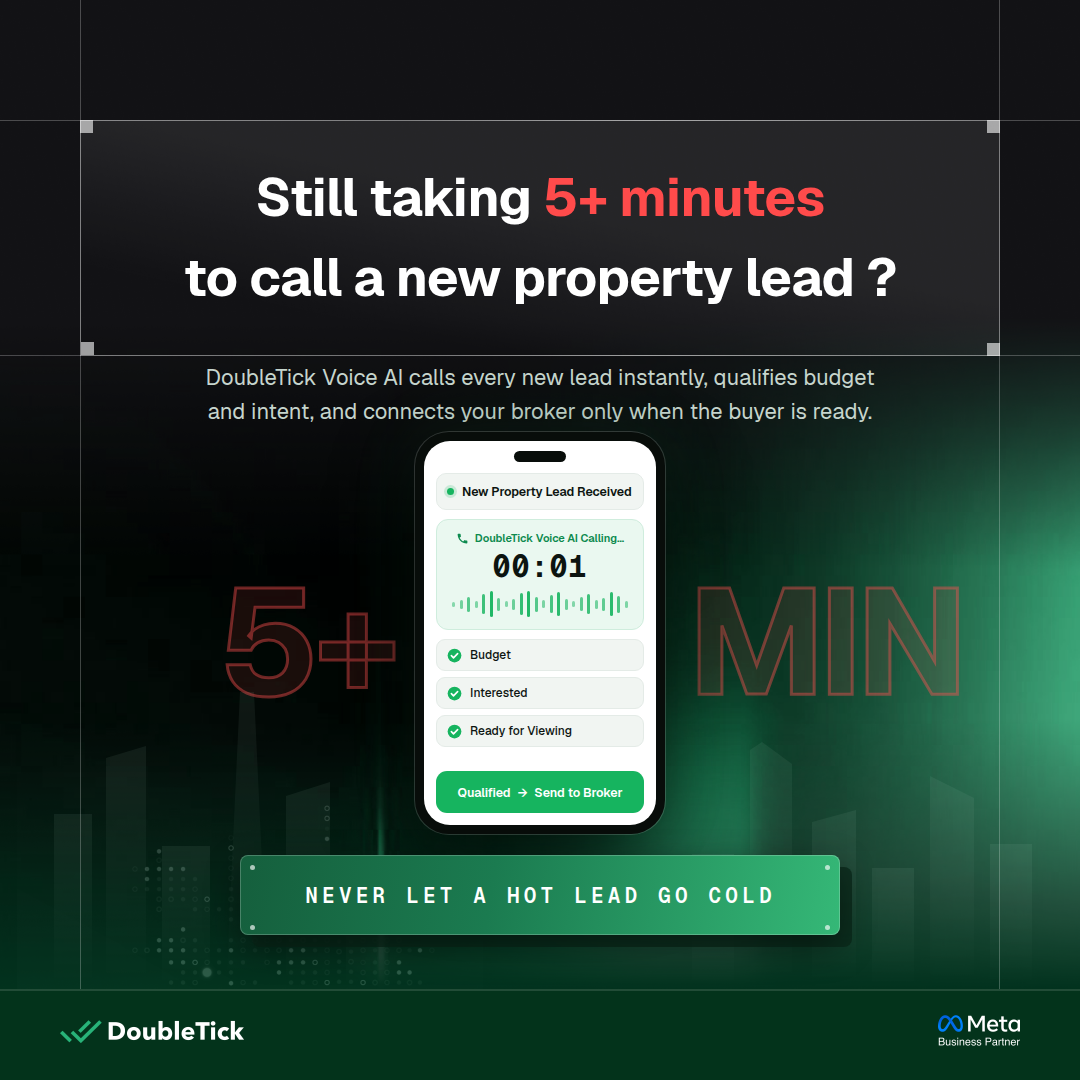
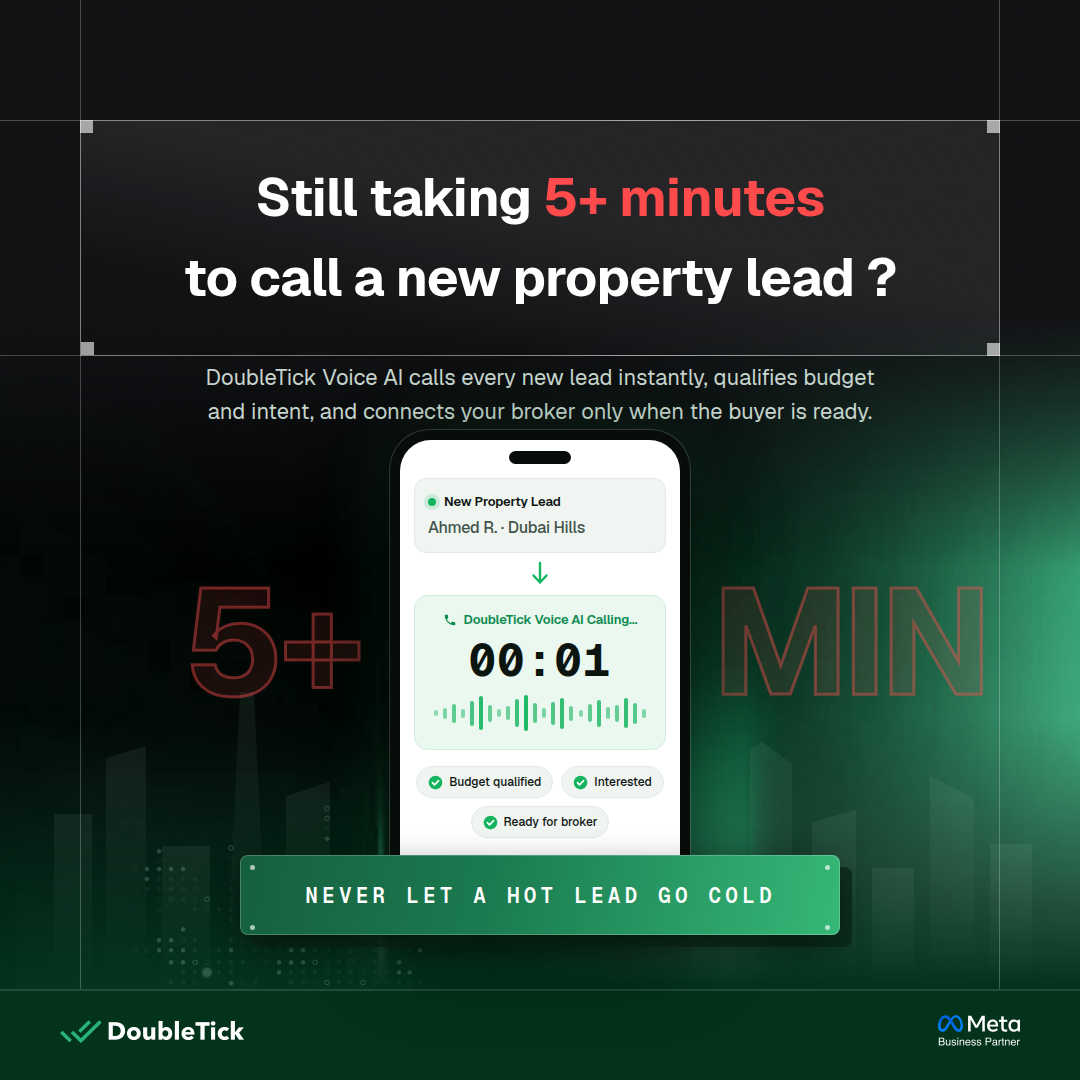
feat: enlarge the phone and cut its screen to one clear story
The 250px phone was too small for its screen to read at feed size, so the
AI call never landed. Phone is now 300x494 and runs behind the CTA, which
buys the height a realistic phone ratio needs.

Screen, top to bottom:
- New Property Lead / Ahmed R. - Dubai Hills
- down arrow
- DoubleTick Voice AI Calling... / 00:01 / live waveform
- three small chips: Budget qualified, Interested, Ready for broker

Dropped the "Qualified -> Send to Broker" bar; the chips already carry the
outcome.

Claude-Session: https://claude.ai/code/session_018HdwsZw2cb2BqPFsQ5TjX1

Changed region(s): [[0.1528, 0.3972, 0.9167, 0.7944]]

diff --git a/creatives/voice-ai-instant-callback.html b/creatives/voice-ai-instant-callback.html
@@ -41,57 +41,54 @@
     letter-spacing:-5px;line-height:1;color:rgba(255,75,75,.10);
     -webkit-text-stroke:3px rgba(255,82,82,.42);
   }
-  .ghost.l{left:170px;width:225px;text-align:right}
-  .ghost.r{left:688px}
+  .ghost.l{left:130px;width:230px;text-align:right}
+  .ghost.r{left:712px}
 
-  /* ---------- phone ---------- */
+  /* ---------- phone (runs behind the CTA) ---------- */
   .phone{
-    position:absolute;left:415px;top:432px;width:250px;height:402px;
-    border-radius:34px;background:#080D0A;padding:9px;
+    position:absolute;left:390px;top:430px;width:300px;height:494px;
+    border-radius:40px;background:#080D0A;padding:10px;
     box-shadow:0 0 0 1px rgba(255,255,255,.16), 0 34px 80px rgba(0,0,0,.65),
-               0 0 70px rgba(47,224,126,.10);
+               0 0 80px rgba(47,224,126,.12);
   }
   .screen{
-    width:232px;height:384px;border-radius:26px;background:#fff;overflow:hidden;
-    padding:10px 12px 12px;display:flex;flex-direction:column;
+    width:280px;height:474px;border-radius:31px;background:#fff;overflow:hidden;
+    padding:11px 14px;display:flex;flex-direction:column;
   }
-  .island{width:52px;height:11px;border-radius:7px;background:#080D0A;margin:0 auto 11px}
+  .island{width:62px;height:13px;border-radius:8px;background:#080D0A;margin:0 auto 14px}
 
-  .row{
-    display:flex;align-items:center;gap:8px;
-    background:#F1F5F2;border:1px solid #E4EBE7;border-radius:10px;padding:9px 10px;
-  }
-  .row .dot{width:7px;height:7px;border-radius:50%;background:#16B45F;flex:0 0 auto;
-            box-shadow:0 0 0 3px rgba(22,180,95,.18)}
-  .row .t{font-size:12.5px;font-weight:600;color:var(--ink);letter-spacing:-.1px}
+  .lead{background:#F1F5F2;border:1px solid #E4EBE7;border-radius:12px;padding:14px 13px}
+  .lead .hd{display:flex;align-items:center;gap:8px}
+  .lead .hd span{width:8px;height:8px;border-radius:50%;background:#16B45F;flex:0 0 auto;
+                 box-shadow:0 0 0 4px rgba(22,180,95,.16)}
+  .lead .hd b{font-size:13px;font-weight:600;color:var(--ink);letter-spacing:-.1px}
+  .lead .who{margin-top:7px;font-size:16px;font-weight:500;color:#41544A;letter-spacing:-.2px}
+
+  .arrow{display:flex;align-items:center;justify-content:center;height:42px}
 
   .call{
-    margin-top:9px;background:#EAF8F0;border:1px solid #CFEDDD;border-radius:12px;
-    padding:11px 10px 12px;text-align:center;
+    background:#EAF8F0;border:1px solid #CFEDDD;border-radius:14px;
+    padding:15px 12px 18px;text-align:center;
   }
   .call .hd{
-    display:flex;align-items:center;justify-content:center;gap:6px;
-    font-size:11px;font-weight:600;color:#0C8A4E;letter-spacing:-.05px;
+    display:flex;align-items:center;justify-content:center;gap:7px;
+    font-size:13px;font-weight:600;color:#0C8A4E;letter-spacing:-.15px;
   }
   .call .tm{
-    margin-top:7px;font-family:var(--mono);font-size:30px;font-weight:700;
+    margin-top:9px;font-family:var(--mono);font-size:46px;font-weight:700;
     color:var(--ink);letter-spacing:1px;line-height:1;
   }
   .wave{display:flex;align-items:center;justify-content:space-between;
-        width:176px;height:26px;margin:9px auto 0}
-  .wave span{width:3px;background:#16B45F;display:block;border-radius:2px}
+        width:212px;height:36px;margin:12px auto 0}
+  .wave span{width:4px;background:#16B45F;display:block;border-radius:2px}
 
-  .chips{margin-top:9px;display:flex;flex-direction:column;gap:6px}
-  .chip{
-    display:flex;align-items:center;gap:8px;
-    background:#F1F5F2;border:1px solid #E4EBE7;border-radius:9px;padding:7px 10px;
-    font-size:12px;font-weight:500;color:var(--ink);
+  .chips{
+    margin-top:16px;display:flex;flex-wrap:wrap;gap:8px;justify-content:center;
   }
-
-  .send{
-    margin-top:auto;height:42px;border-radius:11px;background:#16B45F;
-    display:flex;align-items:center;justify-content:center;gap:7px;
-    color:#fff;font-size:12.5px;font-weight:600;letter-spacing:-.1px;
+  .chip{
+    display:flex;align-items:center;gap:6px;
+    background:#F1F5F2;border:1px solid #E4EBE7;border-radius:20px;padding:7px 11px;
+    font-size:12px;font-weight:500;color:var(--ink);white-space:nowrap;
   }
 
   /* ---------- CTA ---------- */
@@ -153,14 +150,21 @@
     <div class="screen">
       <div class="island"></div>
 
-      <div class="row">
-        <span class="dot"></span>
-        <span class="t">New Property Lead Received</span>
+      <div class="lead">
+        <div class="hd"><span></span><b>New Property Lead</b></div>
+        <div class="who">Ahmed R. · Dubai Hills</div>
+      </div>
+
+      <div class="arrow">
+        <svg width="20" height="26" viewBox="0 0 20 26" fill="none" stroke="#16B45F"
+             stroke-width="2.4" stroke-linecap="round" stroke-linejoin="round">
+          <path d="M10 2 V20"/><path d="M3.5 14.5 L10 21.5 L16.5 14.5"/>
+        </svg>
       </div>
 
       <div class="call">
         <div class="hd">
-          <svg width="13" height="13" viewBox="0 0 24 24" fill="#0C8A4E">
+          <svg width="14" height="14" viewBox="0 0 24 24" fill="#0C8A4E">
             <path d="M6.6 10.8c1.4 2.8 3.8 5.1 6.6 6.6l2.2-2.2c.3-.3.7-.4 1-.2 1.2.4 2.4.6 3.6.6.6 0 1 .4 1 1V20c0 .6-.4 1-1 1C10.6 21 3 13.4 3 4c0-.6.4-1 1-1h3.5c.6 0 1 .4 1 1 0 1.3.2 2.5.6 3.6.1.4 0 .8-.2 1.1l-2.3 2.1z"/>
           </svg>
           DoubleTick Voice AI Calling…
@@ -170,21 +174,10 @@
       </div>
 
       <div class="chips">
-        <div class="chip">
-          <svg width="15" height="15" viewBox="0 0 24 24"><circle cx="12" cy="12" r="11" fill="#16B45F"/><path d="M7 12.3l3.4 3.4L17 9.1" stroke="#fff" stroke-width="2.6" fill="none" stroke-linecap="round" stroke-linejoin="round"/></svg>
-          Budget
-        </div>
-        <div class="chip">
-          <svg width="15" height="15" viewBox="0 0 24 24"><circle cx="12" cy="12" r="11" fill="#16B45F"/><path d="M7 12.3l3.4 3.4L17 9.1" stroke="#fff" stroke-width="2.6" fill="none" stroke-linecap="round" stroke-linejoin="round"/></svg>
-          Interested
-        </div>
-        <div class="chip">
-          <svg width="15" height="15" viewBox="0 0 24 24"><circle cx="12" cy="12" r="11" fill="#16B45F"/><path d="M7 12.3l3.4 3.4L17 9.1" stroke="#fff" stroke-width="2.6" fill="none" stroke-linecap="round" stroke-linejoin="round"/></svg>
-          Ready for Viewing
-        </div>
+        <div class="chip"><svg width="15" height="15" viewBox="0 0 24 24"><circle cx="12" cy="12" r="11" fill="#16B45F"/><path d="M7 12.3l3.4 3.4L17 9.1" stroke="#fff" stroke-width="2.6" fill="none" stroke-linecap="round" stroke-linejoin="round"/></svg> Budget qualified</div>
+        <div class="chip"><svg width="15" height="15" viewBox="0 0 24 24"><circle cx="12" cy="12" r="11" fill="#16B45F"/><path d="M7 12.3l3.4 3.4L17 9.1" stroke="#fff" stroke-width="2.6" fill="none" stroke-linecap="round" stroke-linejoin="round"/></svg> Interested</div>
+        <div class="chip"><svg width="15" height="15" viewBox="0 0 24 24"><circle cx="12" cy="12" r="11" fill="#16B45F"/><path d="M7 12.3l3.4 3.4L17 9.1" stroke="#fff" stroke-width="2.6" fill="none" stroke-linecap="round" stroke-linejoin="round"/></svg> Ready for broker</div>
       </div>
-
-      <div class="send">Qualified <span>→</span> Send to Broker</div>
     </div>
   </div>
 
@@ -196,12 +189,12 @@
 </div>
 <script>
   // deterministic waveform — fixed amplitudes, no randomness
-  const amps = [5,9,15,7,20,26,13,6,11,22,26,15,8,18,24,11,6,14,20,9,13,24,17,7];
+  const amps = [6,11,19,9,25,34,17,8,14,28,36,20,10,23,31,15,7,18,27,12,17,30,21,9];
   const wave = document.getElementById('wave');
   amps.forEach(a=>{
     const s = document.createElement('span');
     s.style.height = a + 'px';
-    s.style.opacity = (0.35 + (a/26)*0.6).toFixed(2);
+    s.style.opacity = (0.35 + (a/36)*0.6).toFixed(2);
     wave.appendChild(s);
   });
 </script>
